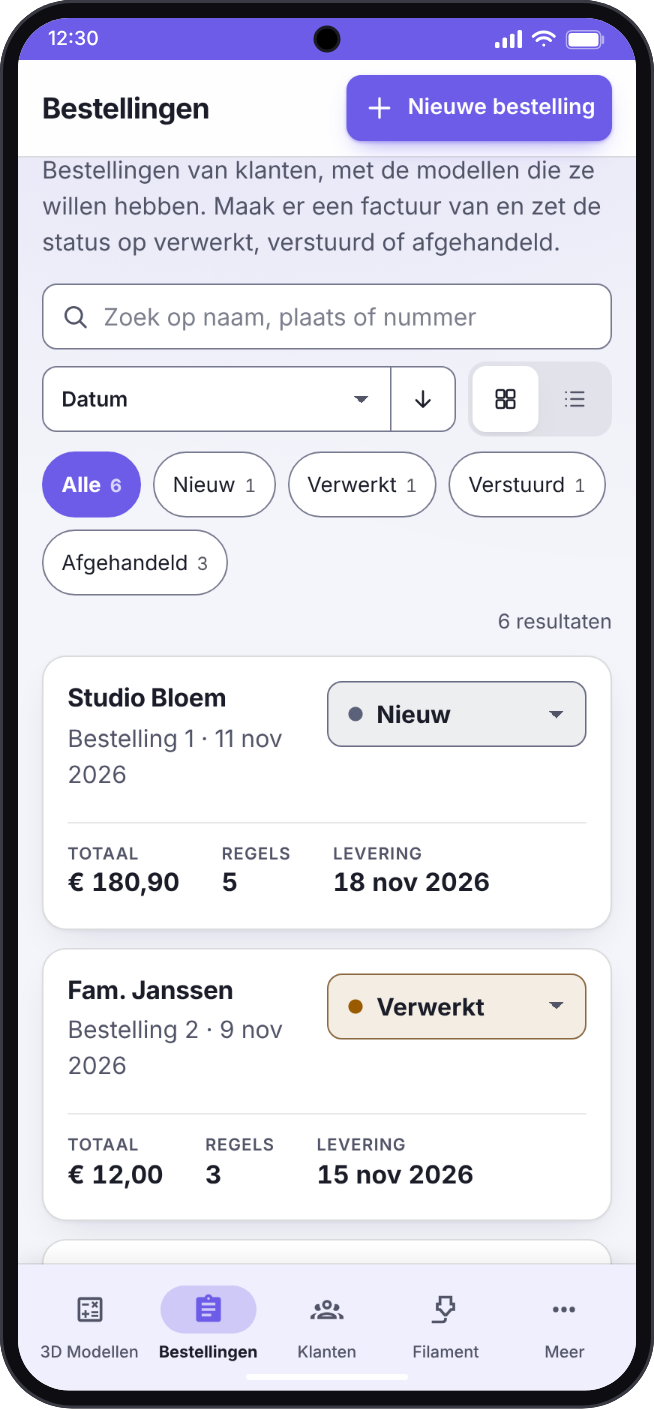
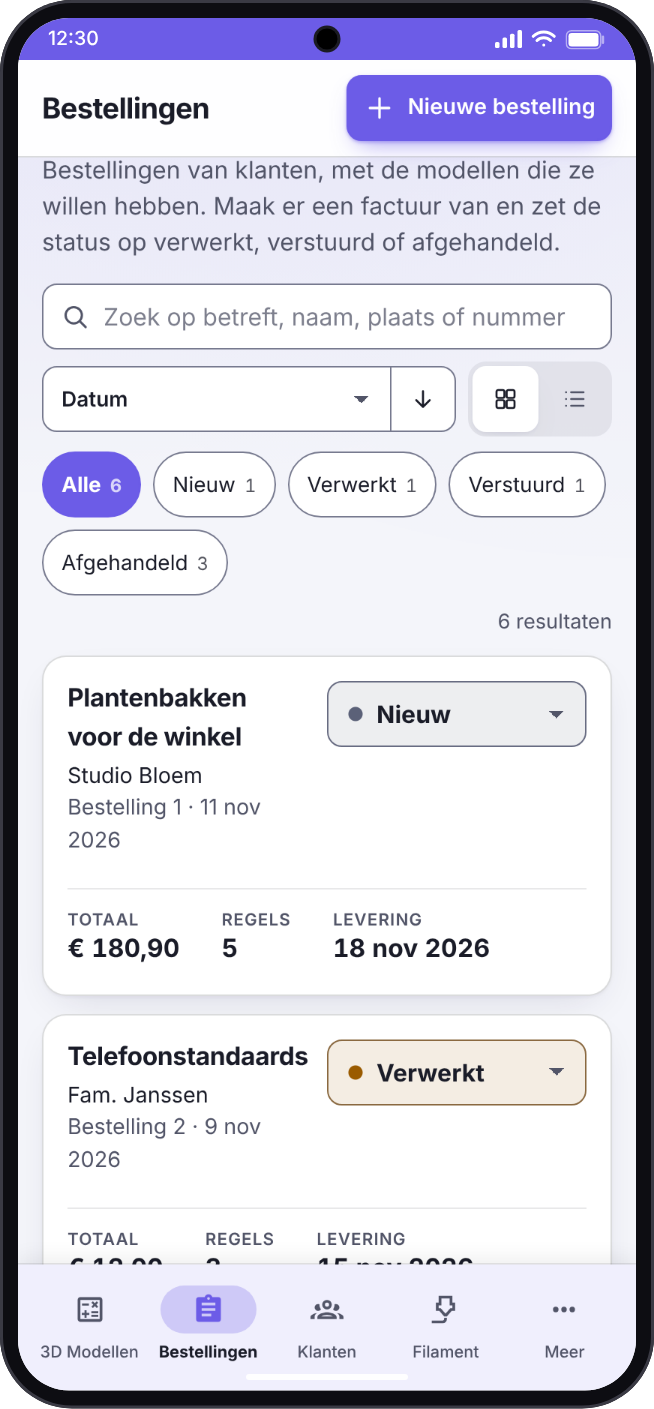
feat(orders): the overview shows an order's "Betreft" where the customer name was
The orders overview (tiles and list) is now headed by the order's "Betreft"; an
order without one is called "Bestelling <number>", as on the invoice. The
customer name stays, smaller, under it, so the tile reads: Betreft / customer /
number and date. The list's first column is headed "Betreft" and sorts on it
(sorting on the customer is still in the sort menu).

GET /api/orders now carries `subject` (13 columns instead of 12), and searching
finds an order by it, in the browser and in the `q` filter of the API. The
screenshots of the orders screen, the handleiding and the two documents that
count the list's columns are updated.

Claude-Session: https://claude.ai/code/session_01KSdu55CoUuRxfwqq9wLgqh

Changed region(s): [[0.0612, 0.4684, 0.9174, 0.9056], [0.3364, 0.2186, 0.8563, 0.2498]]

diff --git a/frontend/js/orders.js b/frontend/js/orders.js
@@ -15,6 +15,11 @@ const today = () => new Date().toLocaleDateString('sv-SE');          // YYYY-MM-
 
 const stat = (label, value) => h('div', {}, h('dt', {}, label), h('dd', {}, value));
 
+// What the overview calls an order: its “Betreft”, or, as on the invoice, “Bestelling <number>” when none was filled in. The customer goes
+// under it, smaller; the number is left out of the small line when it already is the title.
+const titleOf = (o) => o.subject || t('orders.number', { n: o.number });
+const numberOf = (o) => (o.subject ? t('orders.number', { n: o.number }) : null);
+
 // --- list -----------------------------------------------------------------------
 
 export function orderListView() {
@@ -33,11 +38,12 @@ export function orderListView() {
   const view = listView({
     id: 'orders',
     search: { label: t('orders.search'), placeholder: t('orders.search_ph'),
-      text: (o) => [o.customer_name, o.customer_number, o.city, o.invoice_number, String(o.number)] },
+      text: (o) => [o.subject, o.customer_name, o.customer_number, o.city, o.invoice_number, String(o.number)] },
     chips: { label: t('orders.filter_status'), all: t('orders.all'), options: STATUSES.map((s) => [s, statusLabel(s)]), value: (o) => o.status },
     sorts: [
       { key: 'date', label: t('orders.date'), value: (o) => `${o.order_date || ''} ${String(o.number).padStart(9, '0')}`, desc: true },
       { key: 'number', label: t('sort.number'), value: (o) => Number(o.number), desc: true },
+      { key: 'subject', label: t('orders.subject'), value: (o) => titleOf(o) },
       { key: 'customer', label: t('orders.customer'), value: (o) => o.customer_name },
       { key: 'status', label: t('orders.status'), value: (o) => STATUSES.indexOf(o.status) },
       { key: 'delivery', label: t('orders.delivery'), value: (o) => o.delivery_date || '9999' },
@@ -45,8 +51,8 @@ export function orderListView() {
     tie: (o) => o.customer_name,
     href,
     columns: [
-      { label: t('orders.customer'), sort: 'customer', cls: 'main', cell: (o) => h('div', {}, h('a', { class: 'cell-title', href: href(o) }, o.customer_name),
-        h('div', { class: 'cell-sub muted' }, [t('orders.number', { n: o.number }), o.city].filter(Boolean).join(' · '))) },
+      { label: t('orders.subject'), sort: 'subject', cls: 'main', cell: (o) => h('div', {}, h('a', { class: 'cell-title', href: href(o) }, titleOf(o)),
+        h('div', { class: 'cell-sub muted' }, [o.customer_name, numberOf(o), o.city].filter(Boolean).join(' · '))) },
       { label: t('orders.date'), sort: 'date', cls: 'nowrap', cell: (o) => dateFmt(o.order_date) },
       { label: t('orders.status'), sort: 'status', cell: (o) => statusSelect(o) },
       { label: t('orders.lines'), cls: 'num', wide: true, cell: (o) => String(o.line_count) },
@@ -55,8 +61,9 @@ export function orderListView() {
       { label: t('orders.total'), sort: 'total', cls: 'num strong', cell: (o) => eur(o.total) }],
     tile: (o) => h('article', { class: 'glass card item' },
       h('div', { class: 'item-head' },
-        h('div', {}, h('h3', {}, h('a', { href: href(o) }, o.customer_name)),
-          h('p', { class: 'muted' }, `${t('orders.number', { n: o.number })} · ${dateFmt(o.order_date)}`)),
+        h('div', {}, h('h3', {}, h('a', { href: href(o) }, titleOf(o))),
+          h('p', { class: 'item-customer' }, o.customer_name),
+          h('p', { class: 'muted item-meta' }, [numberOf(o), dateFmt(o.order_date)].filter(Boolean).join(' · '))),
         statusSelect(o)),
       h('dl', { class: 'stats' },
         stat(t('orders.total'), eur(o.total)), stat(t('orders.lines'), String(o.line_count)),

diff --git a/frontend/css/app.css b/frontend/css/app.css
@@ -677,6 +677,8 @@ h1, h2 { font-weight: 700; }
 .link-card:active { transform: none; }
 .item h3 a { color: var(--text); text-decoration: none; }
 .item h3 a:hover { color: var(--accent); text-decoration: underline; text-underline-offset: 3px; }
+.item-customer, .item-meta { font-size: .9rem; }                          /* an order's customer and its number and date, under the title: a little smaller than it */
+.item-customer { margin: 2px 0 0; }
 .item { gap: 12px; }
 .item-head { align-items: flex-start; }
 .stats { gap: 8px 28px; padding-top: 12px; border-top: 1px solid var(--lijn); }

diff --git a/backend/app/orders.py b/backend/app/orders.py
@@ -231,8 +231,8 @@ def _event(order: dict, lines: list) -> dict:
 
 # --- API --------------------------------------------------------------------------------------------------------
 
-LIST_COLUMNS = ("id", "number", "status", "order_date", "delivery_date", "customer_id", "customer_name", "customer_number", "city", "invoice_number",
-                "invoice_date", "updated_at")
+LIST_COLUMNS = ("id", "number", "status", "order_date", "delivery_date", "customer_id", "customer_name", "customer_number", "subject", "city",
+                "invoice_number", "invoice_date", "updated_at")
 
 @bp.get("")
 def list_orders():
@@ -246,8 +246,8 @@ def list_orders():
         params.append(status)
     if query:
         like = f"%{query.replace('%', '').replace('_', '')}%"
-        where.append("(customer_name ILIKE %s OR customer_number ILIKE %s OR city ILIKE %s OR CAST(number AS TEXT) = %s OR invoice_number ILIKE %s)")
-        params += [like, like, like, query.lstrip("#"), like]
+        where.append("(customer_name ILIKE %s OR customer_number ILIKE %s OR subject ILIKE %s OR city ILIKE %s OR CAST(number AS TEXT) = %s OR invoice_number ILIKE %s)")
+        params += [like, like, like, like, query.lstrip("#"), like]
     # Only what a row of the list shows is read: an order has 30 columns and a line three ids, and turning those into Python values was
     # most of the time of this list (docs/performance.md). The total is still worked out here, from the lines' own numbers.
     sql = (f"SELECT {', '.join(LIST_COLUMNS)} FROM orders" + (" WHERE " + " AND ".join(where) if where else "")

diff --git a/backend/tests/test_payloads.py b/backend/tests/test_payloads.py
@@ -110,8 +110,8 @@ def test_the_list_of_orders_reads_only_what_a_row_shows(owner, monkeypatch):
     assert any(sql.startswith("SELECT order_id, quantity, unit_price, vat_pct FROM order_lines") for sql in read)
     whole = owner.get(f"/api/orders/{order['id']}").get_json()
     assert row["total"] == whole["totals"]["total"] == "35.10" and row["line_count"] == 2          # the same total as the order itself works out
-    for key in ("id", "number", "status", "order_date", "delivery_date", "customer_id", "customer_name", "customer_number", "city", "invoice_number",
-                "invoice_date", "updated_at"):
+    for key in ("id", "number", "status", "order_date", "delivery_date", "customer_id", "customer_name", "customer_number", "subject", "city",
+                "invoice_number", "invoice_date", "updated_at"):
         assert row[key] == whole[key], key
-    assert set(row) == {"id", "number", "status", "order_date", "delivery_date", "customer_id", "customer_name", "customer_number", "city", "invoice_number",
-                        "invoice_date", "updated_at", "line_count", "total"}
+    assert set(row) == {"id", "number", "status", "order_date", "delivery_date", "customer_id", "customer_name", "customer_number", "subject", "city",
+                        "invoice_number", "invoice_date", "updated_at", "line_count", "total"}

diff --git a/backend/tests/test_orders.py b/backend/tests/test_orders.py
@@ -200,6 +200,16 @@ def test_the_list_filters_by_status_and_searches_by_name_number_and_city(owner):
     assert listed["total"] == "12.10" and listed["line_count"] == 1
 
 
+def test_the_list_carries_the_subject_and_finds_an_order_by_it(owner):
+    """The overview is headed by an order's “Betreft” (the customer goes under it), so the list has to say it, and searching has to find it."""
+    a = new_order(owner, customer_name="Anna de Vries", subject="Plantenbakken voor de winkel")
+    new_order(owner, customer_name="Bram Bakker", subject="")
+    listed = {o["customer_name"]: o for o in owner.get("/api/orders").get_json()}
+    assert listed["Anna de Vries"]["subject"] == "Plantenbakken voor de winkel" and listed["Bram Bakker"]["subject"] == ""
+    assert [o["number"] for o in owner.get("/api/orders?q=plantenbak").get_json()] == [a["number"]]
+    assert owner.get("/api/orders?q=bestaat+niet").get_json() == []
+
+
 def test_an_order_can_be_edited_and_deleted(owner):
     order = new_order(owner)
     body = {**order, "customer_id": customer(owner, name="Piet")["id"], "lines": [line("Nieuw", 4, "2.50", "0")]}

diff --git a/docs/app-engineering-conformance.md b/docs/app-engineering-conformance.md
@@ -75,7 +75,7 @@ What a review checks the running app against. The targets are **proposals**: the
 | 23 | Long polling | n/a | Plain short polling of a job's state (see 22). |  |
 | 24 | Server-Sent Events | n/a | See 22. |  |
 | 25 | Database indexing | applies | Every index is justified by a query plan: `test_query_plans.py` records the statements a request really sends and asserts the plan of each, with the indexes by name (`EXPECTED_INDEXES`). Found by explaining all 658 distinct statements of the test suite on a grown database (docs/performance.md section 2). | `test_query_plans.py` in job `backend-tests` |
-| 26 | Query optimization | applies | A list reads what a row shows: `GET /api/projects` reads four prices out of the stored totals instead of every line, `GET /api/orders` 12 columns (docs/performance.md section 3). Stored moments are read with `fromisoformat` (7 times faster than `strptime`, section 2). | `test_payloads.py`, `test_query_plans.py`, `test_db.py` |
+| 26 | Query optimization | applies | A list reads what a row shows: `GET /api/projects` reads four prices out of the stored totals instead of every line, `GET /api/orders` 13 columns (docs/performance.md section 3). Stored moments are read with `fromisoformat` (7 times faster than `strptime`, section 2). | `test_payloads.py`, `test_query_plans.py`, `test_db.py` |
 | 27 | N+1 queries | applies | A list fetches the lines of all its rows with one `IN` query (`db.id_list`), a cover or a listing per row through an indexed sub-select, and the screen of a model opens with one request (`GET /api/model-editor`) instead of nine. | `test_query_plans.py`, `test_payloads.py` |
 | 28 | Connection pooling | applies | A thread keeps two SQLite connections between requests, one that writes and one that only reads (`backend/app/db.py`); a new connection cost 1.2 ms because SQLite parses the whole schema (docs/performance.md section 2). | `test_db.py`, `test_concurrency.py` |
 | 29 | Read replicas | n/a | One SQLite file. A block that only reads is a WAL snapshot (`pool().read()`), which waits for no writer and holds up none, so a replica would add nothing. |  |

diff --git a/docs/handleiding.md b/docs/handleiding.md
@@ -720,7 +720,7 @@ bestelling, de marge is dan het *minimum* en de app toont onder de regel de marg
 door de server uitgerekend; een latere wijziging van de berekening verandert een bestelling niet, tenzij je op de **sync-knop** naast het model klikt: die haalt de kostprijs van de berekening zoals die nu is opnieuw op (marge, btw en aantal van de regel blijven; sla de bestelling daarna op). De accessoireregels van die berekening worden niet meegenomen. Bestellingen van vóór deze functie, en eigen regels, houden de prijs die erbij stond of die je typt. Met *Eigen regel toevoegen* komt er een regel bij die niet bij een berekening hoort
 (bijvoorbeeld verzending). De **totalen rekent de server uit** (`backend/app/orders.py`, nooit de browser): de btw wordt per tarief
 uit de som van de regels gehaald, zodat wat de klant betaalt precies de som van de regels is. In het overzicht (tegels of lijst, zie *Overzichten*) filter je op status
-en zoek je op naam, klantnummer, plaats, bestelnummer of factuurnummer; de status zet je daar met één keuzelijst, of in de bestelling zelf. *Opslaan* en *Verwijderen* staan in de titelbalk van de bestelling, net als bij een 3D-model en een klant.
+en zoek je op *Betreft*, naam, klantnummer, plaats, bestelnummer of factuurnummer. Elke bestelling heet daar naar haar **Betreft** (staat er niets, dan “Bestelling” met het nummer, zoals op de factuur), met de klantnaam kleiner eronder; sorteren op *Betreft* of *Klant* kan in de keuzelijst; de status zet je daar met één keuzelijst, of in de bestelling zelf. *Opslaan* en *Verwijderen* staan in de titelbalk van de bestelling, net als bij een 3D-model en een klant.
 
 **Losse accessoires op een bestelling**: met *Accessoire toevoegen* kies je een accessoire uit je lijst (*Onderdelen → Accessoires*, gearchiveerde staan er niet bij) en komt het als optionele regel tegen inkoopprijs (marge 0, aanpasbaar) op de bestelling, ook zonder berekening. Kies je hetzelfde nog eens, dan gaat het aantal omhoog. Een accessoire per meter of per kg krijgt dat achter de omschrijving.
 

diff --git a/docs/performance.md b/docs/performance.md
@@ -228,7 +228,7 @@ What changed:
   for the one calculation when a model is picked.
 - **The screen of a calculation opens with one request**, `GET /api/model-editor`, instead of nine. Every part of the answer is
   made by the function that answers that part's own address and all are read in one snapshot.
-- **`GET /api/orders` reads only what a row shows**: 12 of an order's columns and three numbers of each line (an order line has
+- **`GET /api/orders` reads only what a row shows**: 13 of an order's columns and three numbers of each line (an order line has
   three ids, and turning an id into a Python value is the slow part). The total is still worked out on the server from the lines.
 - **The picture of a packaging item is kept by the browser** when it is asked for by its version (`?v=<hash of the picture>`, which
   the list already did): the address changes with the picture. It was fetched again at every visit.
